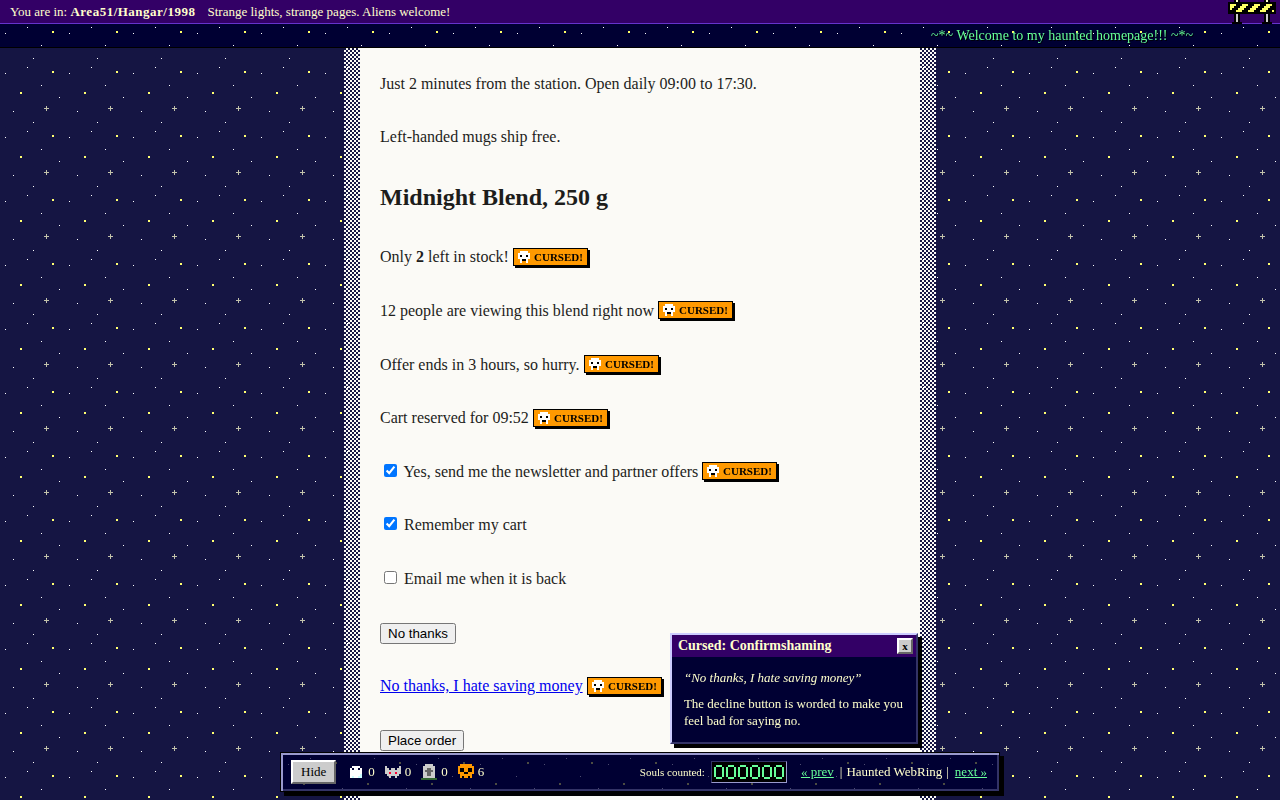
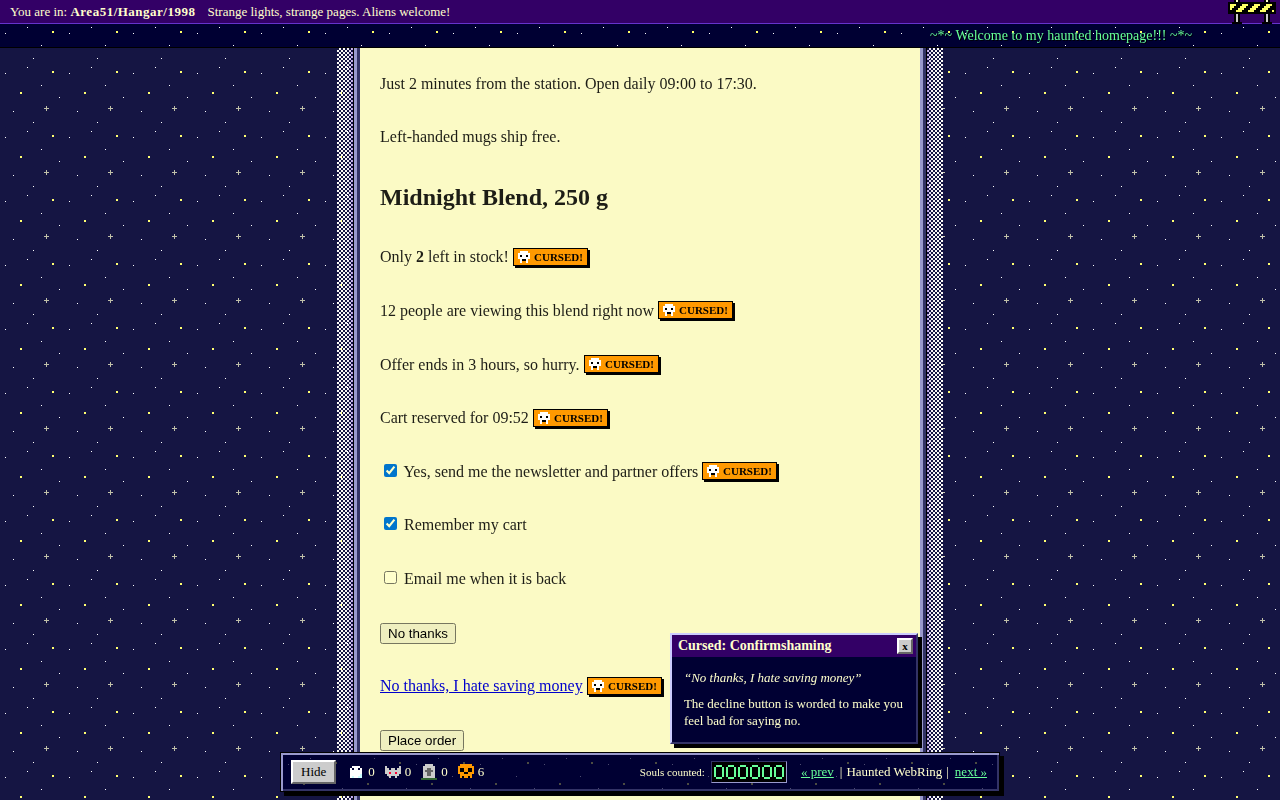
retake readme shots with the costumed page

diff --git a/README.md b/README.md
@@ -1,14 +1,14 @@
 # Haunted GeoCities
 
-A Chrome extension (Manifest V3) that turns the page you are on into a 1998 GeoCities crypt. Click **Haunt** and the page gets a night sky, a heads-up display and a marquee. Click **Un-haunt** and the page is put back as it was. It is an entry in Kiroween 2026, Costume Contest.
+A Chrome extension (Manifest V3) that turns the page you are on into a 1998 GeoCities crypt. Click **Haunt** and the page itself turns 1998: Times New Roman text, Comic Sans headings, blue underlined links and a parchment column in a ridged guestbook frame, under a night sky, a heads-up display and a marquee. Click **Un-haunt** and the page is put back as it was. It is an entry in Kiroween 2026, Costume Contest.
 
 A pre-period prototype exists outside the entry and was rebuilt from lessons, not copied; Tracker Radar ingest output is the only reused data.
 
-![A haunted page: a tracker ghost, two vampires, the HUD along the bottom](docs/screenshots/haunted.png)
+![A haunted page: the article in Times New Roman on a parchment column inside a ridged guestbook frame, a tracker ghost and two vampires in the starfield, the HUD along the bottom](docs/screenshots/haunted.png)
 
 ## What it does
 
-- Haunt and un-haunt any page from the toolbar popup. The costume (starfield, HUD, marquee) sits in a closed shadow root over the page, and un-haunting removes it.
+- Haunt and un-haunt any page from the toolbar popup. The page is restyled (fonts, link colours, a parchment tint and a guestbook frame around the content column) by one adopted stylesheet, and the starfield, HUD and marquee sit in a closed shadow root over it. On a phone or a full-width page the whole page is tinted inside a 12px starfield edge. Un-haunting removes it all and the page is byte for byte as it was.
 - Trackers show up as ghosts, one per company, matched against the bundled DuckDuckGo Tracker Radar data. Click a ghost for its card.
 - Exorcise blocks a company for the current tab with declarativeNetRequest session rules. The block lasts until you un-haunt, reload or leave the page, or close the tab, and the popup can let it back in.
 - Scripts caught fingerprinting at runtime (canvas, audio or font probing) become vampires. Companies that Tracker Radar already rates as fingerprinters are listed as known vampires.
@@ -57,6 +57,8 @@ It serves them on `http://127.0.0.1:4321` (`scripts/fixture-server.ts`, an optio
 | `index.html` | A plain newspaper page with a form and links. Haunt it and un-haunt it. |
 | `clean.html` | A quiet page with no trackers. |
 | `column.html` | A long article, good for seeing the costume around a page. |
+| `article.html` | A plain white article with code, an icon and a form: the restyle, the tint and the guestbook frame. |
+| `dark.html` | A dark page: no tint, light-blue links. |
 | `trackers.html` | Ghosts (Criteo), plus Hotjar and Taboola as known vampires. Try Exorcise on the card or in the popup. |
 | `vampires.html` | Two scripts that fingerprint the visitor when you click into the email field. After that they show up as caught vampires. |
 | `links.html` | Three dead links (404, 410 and a long path) that get tombstones. |
@@ -69,7 +71,7 @@ The tracker and vampire pages load scripts from real tracker domains. Chrome has
 google-chrome --user-data-dir=/tmp/hg-profile --host-resolver-rules="MAP criteo.com 127.0.0.1,MAP hotjar.com 127.0.0.1,MAP taboola.com 127.0.0.1,MAP adentifi.com 127.0.0.1,MAP nightowl-metrics.test 127.0.0.1"
 ```
 
-`index.html`, `clean.html`, `column.html`, `links.html`, `dark-patterns.html` and `forms.html` work in any Chrome. The tracker and vampire pages need the flag, because otherwise the tracker hosts do not resolve and nothing is seen.
+`index.html`, `clean.html`, `column.html`, `article.html`, `dark.html`, `links.html`, `dark-patterns.html` and `forms.html` work in any Chrome. The tracker and vampire pages need the flag, because otherwise the tracker hosts do not resolve and nothing is seen.
 
 ## Permissions
 

diff --git a/.kiro/specs/costume-renderer/tasks.md b/.kiro/specs/costume-renderer/tasks.md
@@ -412,7 +412,7 @@ Requirements 71-90. Do 17.1 first: its result can change requirement 77.
   - Req: 71-81
   - Test: `bun run visual:baselines`, then `bun run docker:test` passes `test:visual` against the committed PNGs.
 
-- [ ] 17.15 README hero shot: retake `docs/screenshots/haunted.png` with `bun run screenshots` so it shows the costumed column (restyled text, frame, tint). Update the README "What it does" lines that describe the costume as a frame only.
+- [x] 17.15 README hero shot: retake `docs/screenshots/haunted.png` with `bun run screenshots` so it shows the costumed column (restyled text, frame, tint). Update the README "What it does" lines that describe the costume as a frame only.
   - Req: 71, 75, 77
   - Test: the new PNG shows the frame and tinted column; `bun run typecheck` and `bun run test` still pass.
 
